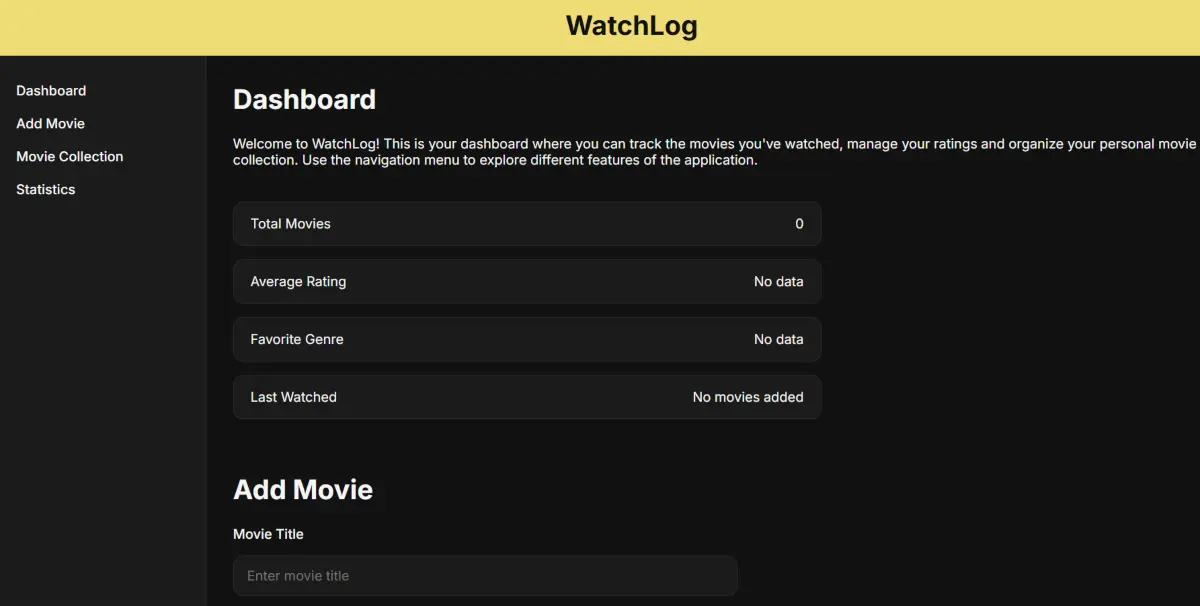
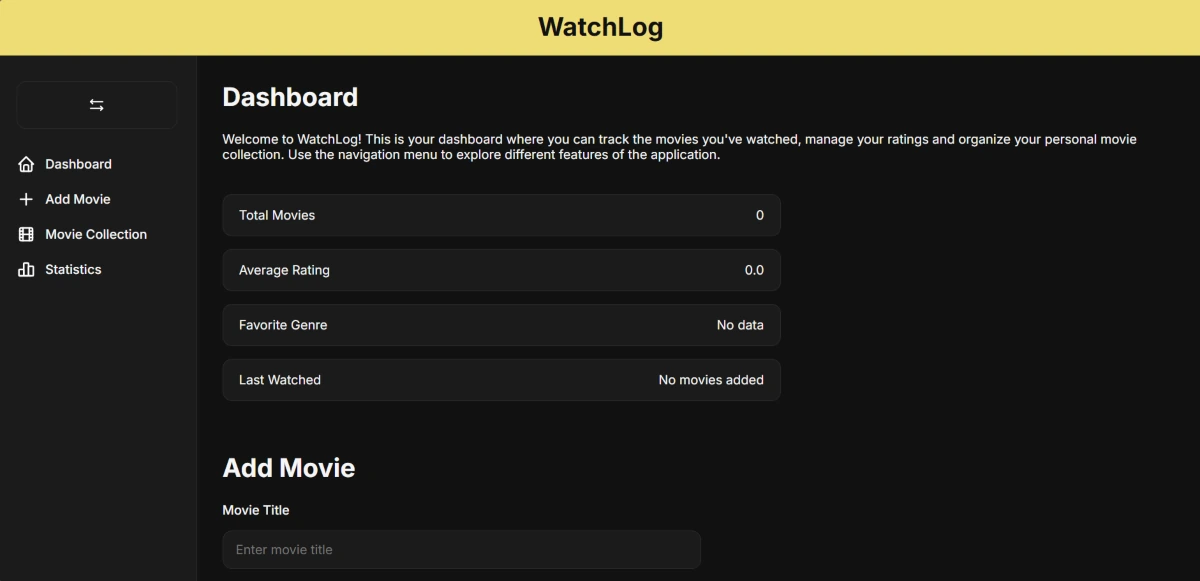
content: update project branding

diff --git a/index.html b/index.html
@@ -199,9 +199,9 @@
 
                 <div class="project-card">
 
-                    <img src="assets/images/watchlog-preview.webp" loading="lazy" alt="Preview of movie manager application">
+                    <img src="assets/images/watchlog-preview.webp" loading="lazy" alt="Preview of watchlog application">
 
-                    <h3>Movie Manager</h3>
+                    <h3>WatchLog</h3>
 
                     <p>Web application for organizing watched movies, 
                     storing ratings and viewing collection statistics.</p>
